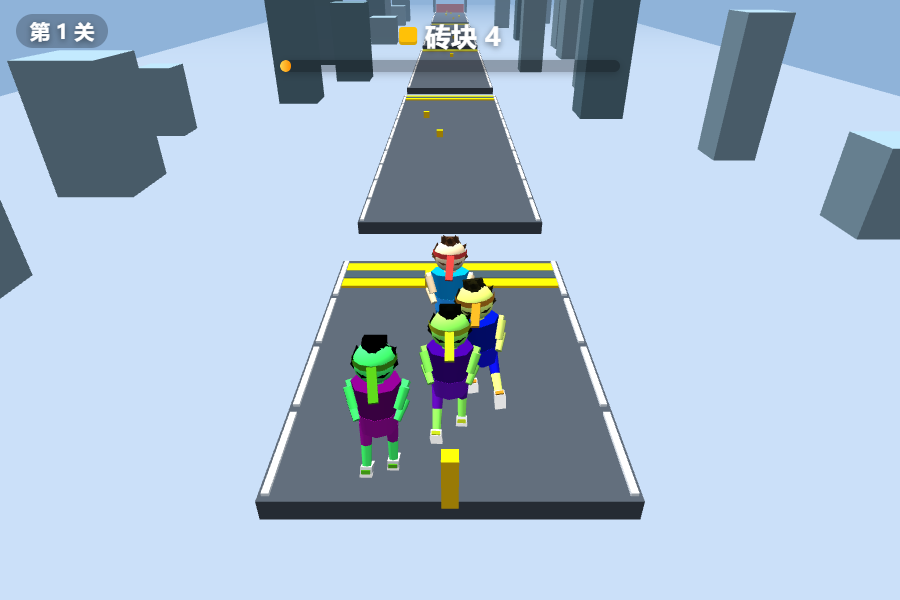
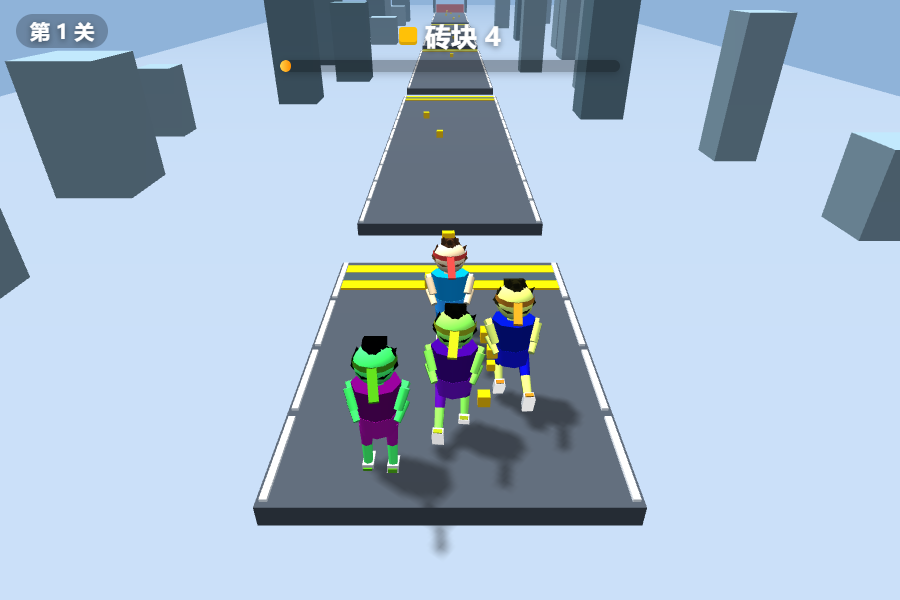
art-pack高价值移植: box()补parent参数修砖垛未挂plankMount; FogExp2雾; PCFSoft阴影(主角/板堆投影+路面接收1024); 吃板粒子burst≤24; 四门全绿

diff --git a/web-preview/index.html b/web-preview/index.html
@@ -348,17 +348,26 @@ const app = document.getElementById('app');
 const renderer = new THREE.WebGLRenderer({ antialias: true });
 renderer.setPixelRatio(Math.min(devicePixelRatio, 2));
 renderer.setSize(innerWidth, innerHeight);
+renderer.shadowMap.enabled = true; // art-pack PCFSoft：仅主角/板堆投影、路面接收（微信 1024 线）
+renderer.shadowMap.type = THREE.PCFSoftShadowMap;
 app.appendChild(renderer.domElement);
 
 const scene = new THREE.Scene();
 scene.background = new THREE.Color(0x87a5c8);
-scene.fog = new THREE.Fog(0x87a5c8, 40, 170);
+scene.fog = new THREE.FogExp2(0x87a5c8, 0.007); // art-pack FogExp2(sky, 0.007)
 
 const camera = new THREE.PerspectiveCamera(55, innerWidth / innerHeight, 0.1, 400);
 
 scene.add(new THREE.HemisphereLight(0xffffff, 0x334455, 1.0));
 const sun = new THREE.DirectionalLight(0xffffff, 0.7);
 sun.position.set(8, 20, 6);
+sun.castShadow = true;
+sun.shadow.mapSize.set(1024, 1024);
+sun.shadow.camera.near = 1;
+sun.shadow.camera.far = 150;
+sun.shadow.camera.left = -30; sun.shadow.camera.right = 30;
+sun.shadow.camera.top = 30; sun.shadow.camera.bottom = -30;
+sun.shadow.bias = -0.0005;
 scene.add(sun);
 
 const BOX = new THREE.BoxGeometry(1, 1, 1);
@@ -420,11 +429,12 @@ function cycleTheme() {
   return themeKey;
 }
 
-function box(mat, sx, sy, sz, x, y, z) {
+function box(mat, sx, sy, sz, x, y, z, parent) {
   const m = new THREE.Mesh(BOX, mat);
   m.scale.set(sx, sy, sz);
   m.position.set(x, y, z);
-  scene.add(m);
+  if (parent) { m.castShadow = true; parent.add(m); }
+  else { m.receiveShadow = true; scene.add(m); } // art-pack：路面接收，不投影
   return m;
 }
 
@@ -497,6 +507,7 @@ const CHAR_MATS = {
 function buildChar() {
   const M = CHAR_MATS;
   const root = player;
+  root.traverse(() => {}); // 占位：网格在子节点创建后统一 castShadow（见 buildChar 末）
   const torsoGroup = new THREE.Group();
   torsoGroup.name = 'Torso'; // 克隆体(AI 对手)靠名字找回关节，必须命名
   torsoGroup.position.set(0, 0.72, 0);
@@ -625,6 +636,7 @@ function buildChar() {
   plankMount.position.set(0, 0.58, 0.62);
   torsoGroup.add(plankMount);
 
+  root.traverse((o) => { if (o.isMesh) { o.castShadow = true; o.receiveShadow = false; } }); // art-pack：仅主角投影
   return { root, torso: torsoGroup, head: headGroup, headbandRibbon, leftArm, rightArm, leftLeg, rightLeg, plankMount };
 }
 const char = buildChar();
@@ -1004,6 +1016,37 @@ function lose(reason) {
   }, 700); // 等掉落动画演完再弹面板
   console.log(`[ShortcutRun] LOSE: ${reason}. 换图重试第 ${levelNum} 关`);
 }
+// 吃板粒子（art-pack）：Box 碎片+重力，上限 24
+const particles = [];
+function spawnPickupBurst(wx, wy, wz, mat) {
+  const n = Math.min(8, 24 - particles.length);
+  for (let i = 0; i < n; i++) {
+    const m = new THREE.Mesh(BOX, mat);
+    const sc = 0.12 + Math.random() * 0.14;
+    m.scale.set(sc, sc, sc);
+    m.position.set(wx + (Math.random() - 0.5) * 0.4, wy + Math.random() * 0.3, wz + (Math.random() - 0.5) * 0.4);
+    m.castShadow = false;
+    scene.add(m);
+    particles.push({
+      m, life: 0.55 + Math.random() * 0.25,
+      vx: (Math.random() - 0.5) * 3.5, vy: 2.5 + Math.random() * 2.5, vz: (Math.random() - 0.5) * 3.5,
+    });
+  }
+}
+function updateParticles(dt) {
+  for (let i = particles.length - 1; i >= 0; i--) {
+    const p = particles[i];
+    p.life -= dt;
+    p.vy -= 12 * dt;
+    p.m.position.x += p.vx * dt;
+    p.m.position.y += p.vy * dt;
+    p.m.position.z += p.vz * dt;
+    if (p.life <= 0 || p.m.position.y < -0.5) {
+      scene.remove(p.m);
+      particles.splice(i, 1);
+    }
+  }
+}
 function checkPickups(x, prevZ, z) {
   for (const p of pickups) {
     if (p.taken) continue;
@@ -1017,6 +1060,7 @@ function checkPickups(x, prevZ, z) {
           floatText('加速 ×1.35！', '#ffee58');
         } else {
           bricks += cfg.brickCluster;
+          spawnPickupBurst(p.mesh.position.x, p.mesh.position.y, p.mesh.position.z, MAT.brick);
         }
         setBricksUI(bricks);
         sfx.pickup();
@@ -1234,6 +1278,7 @@ let slowT = 0; // 失败慢动作剩余时间
 function loop() {
   requestAnimationFrame(loop);
   const raw = clock.getDelta();
+  updateParticles(raw);
   if (slowT > 0) slowT -= raw;
   const dt = Math.min(raw * (slowT > 0 ? 0.35 : 1), 0.05);
   elapsed += dt;
